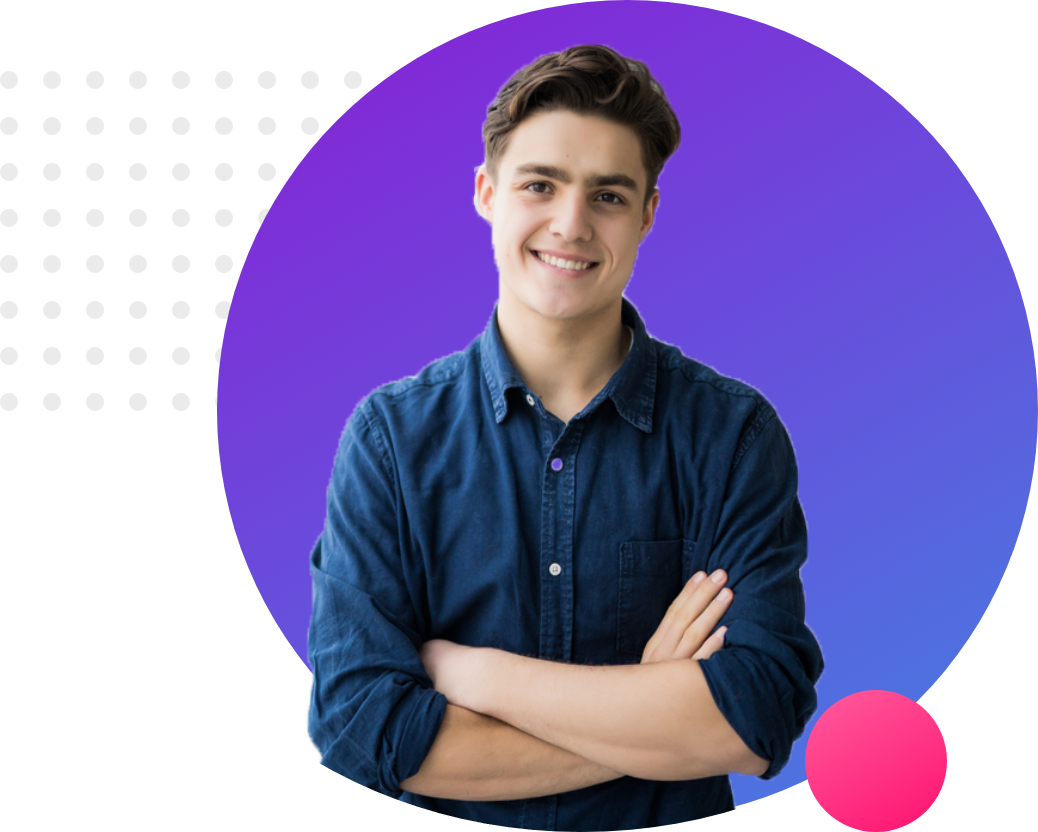
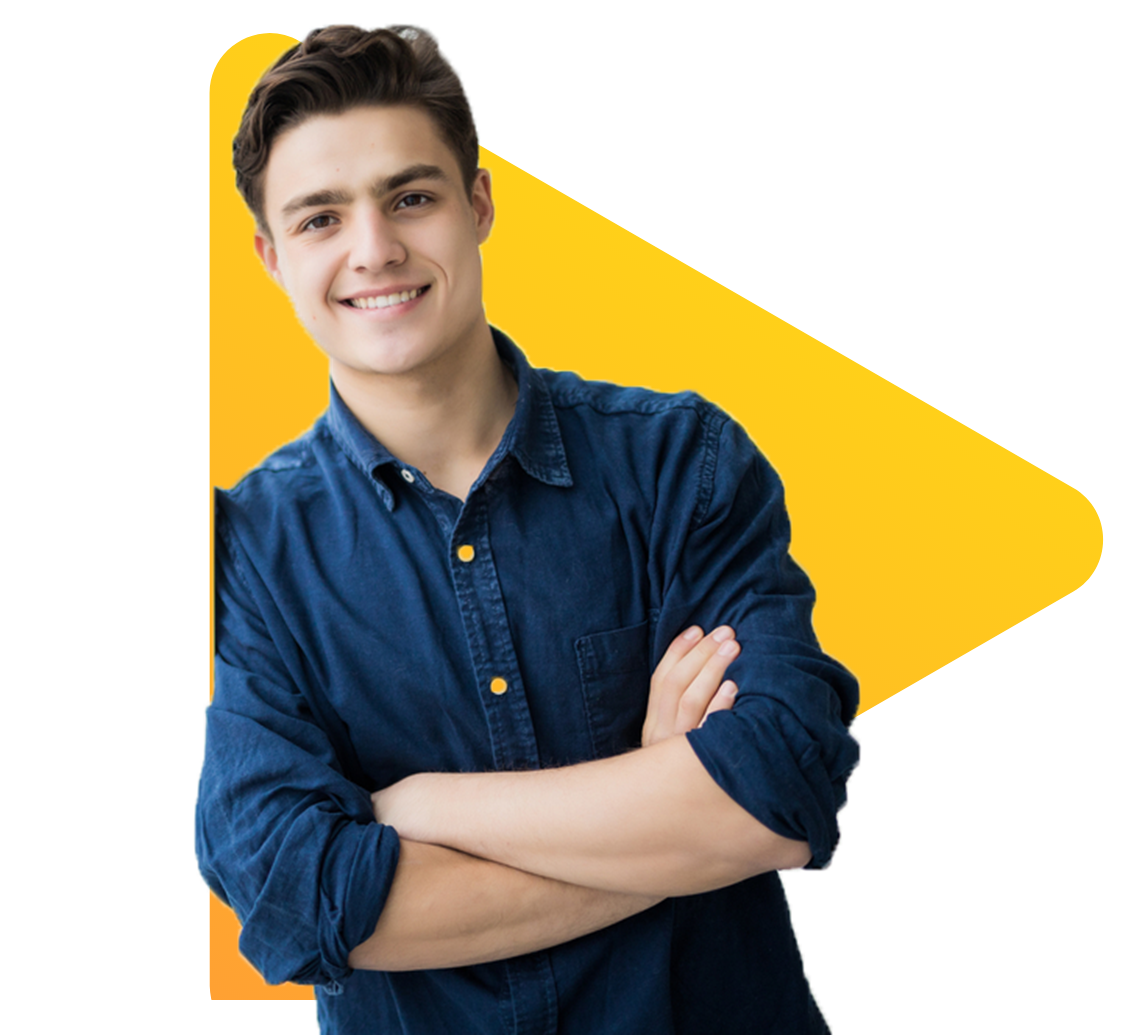
dream section added

diff --git a/index.html b/index.html
@@ -20,6 +20,17 @@
             <img src="images/myimage1.png" alt="">
         </div>
     </section>
+    <section class="dream-area">
+        <div class=" half-width">
+            <img src="images/myimage2.png" alt="">
+        </div>
+        <div class="half-width">
+            <h1>Big Dream</h1>
+            <h3>Become a <span class="name-heighlight">Web Developer</span> </h3>
+            <p>Lorem ipsum dolor sit amet consectetur adipisicing elit. Possimus porro doloribus, pariatur obcaecati iure veniam officia magni nisi ea provident optio, corporis voluptatum enim mollitia, animi quo in eius aperiam.</p>
+            <a class="link-button" target="_blank" href="https://drive.google.com/file/d/1L0egu0HYg9ModKYLvZoODj3FYXSgho32/view?usp=sharing">downlo resume</a>
+        </div>
+    </section>
 
 </body>
 </html>

diff --git a/style.css b/style.css
@@ -7,6 +7,9 @@ body{
 h1{
     
 }
+p{
+    color: dimgray;
+}
 .name-heighlight{
     color: #FFA331;
 }
@@ -25,12 +28,22 @@ h1{
 }
 section{
     height: 500px;
+    padding-bottom: 5%;
 }
 .link-button{
     text-decoration: none;
+    text-transform: uppercase;
     background-image: linear-gradient(45deg,lightSalmon,tomato);
     padding: 10px 20px;
     border-radius: 8px;
     color: white;
     font-weight: 700;
+}
+.dream-area{
+    background-image: url("images/dream-bg.png");
+    background-repeat: no-repeat;
+    background-position: right;
+}
+.dream-img img{
+    width: 40%;
 }
